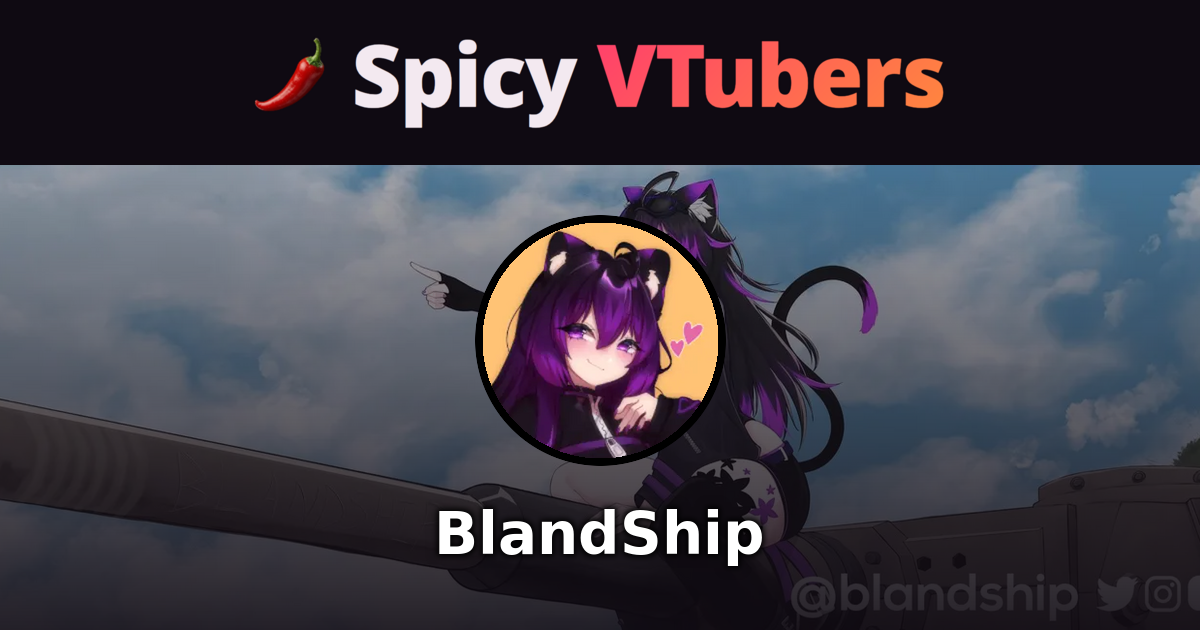
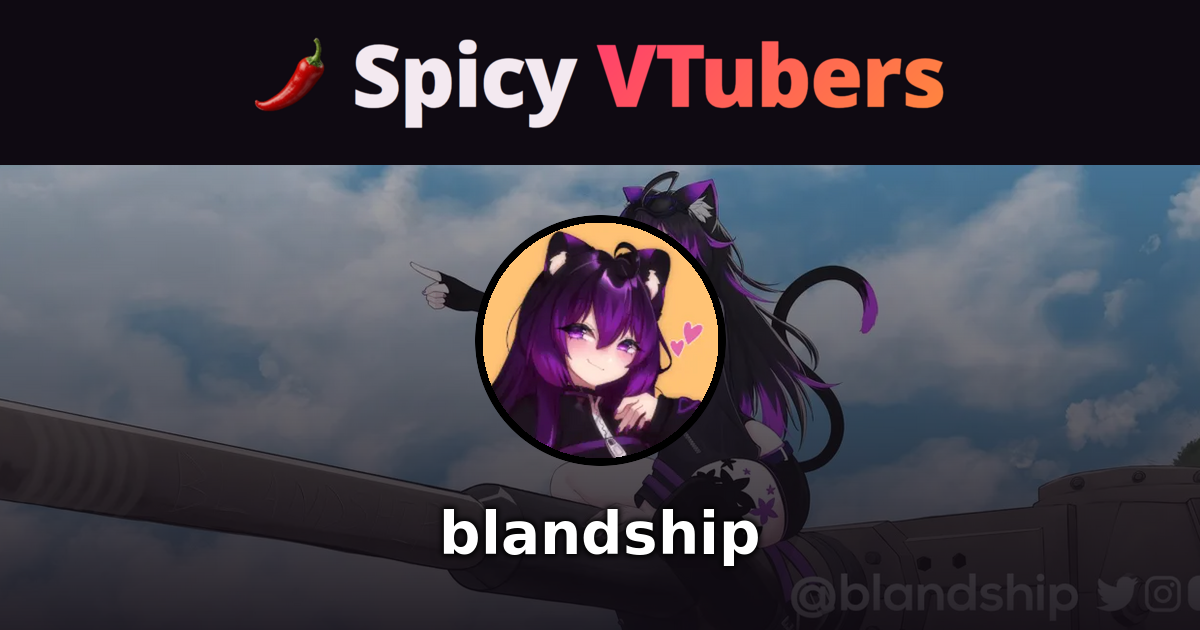
14

Changed region(s): [[0.3392, 0.7841, 0.6475, 0.9048]]

diff --git a/c/anwianwi/index.html b/c/anwianwi/index.html
@@ -3,33 +3,33 @@
 <head>
 <meta charset="UTF-8">
 <meta name="viewport" content="width=device-width, initial-scale=1.0">
-<title>thevioletneko — Spicy VTubers</title>
-<meta name="description" content="Degen, Gremlin, sometimes cozy. I play a wide variety of games. Mixed reality.  📧 Inquiries &amp; VA opportunities: violetneko23@gmail.com">
-<link rel="canonical" href="https://spicyvtubers.com/c/thevioletneko/">
+<title>AnwiAnwi — Spicy VTubers</title>
+<meta name="description" content="んふふ～♡　どこ見てるのかしら？Recently summoned by a lonely soul; though upon meeting the modern folk he found himself horrified by their terrible eating habits, their…">
+<link rel="canonical" href="https://spicyvtubers.com/c/anwianwi/">
 
 <!-- Open Graph -->
 <meta property="og:type" content="profile">
 <meta property="og:site_name" content="Spicy VTubers">
-<meta property="og:title" content="thevioletneko — Spicy VTubers">
-<meta property="og:description" content="Degen, Gremlin, sometimes cozy. I play a wide variety of games. Mixed reality.  📧 Inquiries &amp; VA opportunities: violetneko23@gmail.com">
-<meta property="og:url" content="https://spicyvtubers.com/c/thevioletneko/">
-<meta property="og:image" content="https://spicyvtubers.com/c/thevioletneko/og-image.png">
+<meta property="og:title" content="AnwiAnwi — Spicy VTubers">
+<meta property="og:description" content="んふふ～♡　どこ見てるのかしら？Recently summoned by a lonely soul; though upon meeting the modern folk he found himself horrified by their terrible eating habits, their…">
+<meta property="og:url" content="https://spicyvtubers.com/c/anwianwi/">
+<meta property="og:image" content="https://spicyvtubers.com/c/anwianwi/og-image.png">
 <meta property="og:image:width" content="1200">
 <meta property="og:image:height" content="630">
 
 <!-- Twitter Card -->
 <meta name="twitter:card" content="summary_large_image">
 <meta name="twitter:site" content="@Spicy_VTubers">
-<meta name="twitter:title" content="thevioletneko — Spicy VTubers">
-<meta name="twitter:description" content="Degen, Gremlin, sometimes cozy. I play a wide variety of games. Mixed reality.  📧 Inquiries &amp; VA opportunities: violetneko23@gmail.com">
-<meta name="twitter:image" content="https://spicyvtubers.com/c/thevioletneko/og-image.png">
+<meta name="twitter:title" content="AnwiAnwi — Spicy VTubers">
+<meta name="twitter:description" content="んふふ～♡　どこ見てるのかしら？Recently summoned by a lonely soul; though upon meeting the modern folk he found himself horrified by their terrible eating habits, their…">
+<meta name="twitter:image" content="https://spicyvtubers.com/c/anwianwi/og-image.png">
 
 <link rel="icon" type="image/x-icon" href="/favicon.ico">
 <link rel="icon" type="image/png" sizes="32x32" href="/favicon-32x32.png">
 <link rel="icon" type="image/png" sizes="16x16" href="/favicon-16x16.png">
 <link rel="apple-touch-icon" sizes="180x180" href="/apple-touch-icon.png">
 <link rel="stylesheet" href="/style101.css">
-<script type="application/ld+json">{"@context":"https://schema.org","@type":"Person","name":"thevioletneko","url":"https://spicyvtubers.com/c/thevioletneko/","image":"https://spicyvtubers.com/avatarsLarge/thevioletneko.webp","sameAs":["https://twitch.com/thevioletneko","https://x.com/violetnekovt","https://theviolteneko.carrd.co/"]}</script>
+<script type="application/ld+json">{"@context":"https://schema.org","@type":"Person","name":"AnwiAnwi","url":"https://spicyvtubers.com/c/anwianwi/","image":"https://spicyvtubers.com/avatarsLarge/anwianwi.webp","sameAs":["https://twitch.com/AnwiAnwi","https://x.com/anwianwii","https://x.com/safe4anwi","https://linktr.ee/AnwiAnwi"]}</script>
 </head>
 <body>
 
@@ -73,15 +73,15 @@
   <section class="creator-profile">
     <div class="creator-card">
       <div class="creator-profile-card">
-        <div class="creator-profile-head has-banner" style="--banner-image: url('/banners/thevioletneko.webp')">
-          <span class="avatar avatar-xl" data-initials="T">
-            <img class="avatar-img is-loaded" src="/avatarsLarge/thevioletneko.webp" alt="" decoding="async">
+        <div class="creator-profile-head has-banner" style="--banner-image: url('/banners/anwianwi.webp')">
+          <span class="avatar avatar-xl" data-initials="A">
+            <img class="avatar-img is-loaded" src="/avatarsLarge/anwianwi.webp" alt="" decoding="async">
           </span>
-          <h1 class="channel-name">thevioletneko</h1>
+          <h1 class="channel-name">AnwiAnwi</h1>
         </div>
-        <div class="spice-handles"><a class="spice-pill" data-icon="fansly" href="https://fansly.com/thevioletneko/spicy" target="_blank" rel="noopener noreferrer" title="Fansly: thevioletneko">thevioletneko</a><a class="x-pill" data-icon="x" href="https://x.com/violetnekovt" target="_blank" rel="noopener noreferrer" title="Twitter: violetnekovt">violetnekovt</a></div>
+        <div class="spice-handles"><a class="spice-pill" data-icon="fansly" href="https://fansly.com/anwianwi/spicy" target="_blank" rel="noopener noreferrer" title="Fansly: anwianwi">anwianwi</a><a class="x-pill" data-icon="x" href="https://x.com/anwianwii" target="_blank" rel="noopener noreferrer" title="Twitter: anwianwii">anwianwii</a><a class="x-pill" data-icon="x" href="https://x.com/safe4anwi" target="_blank" rel="noopener noreferrer" title="Twitter: safe4anwi">safe4anwi</a></div>
       </div>
-      <div class="creator-bio-panel"><div class="bio-content">Degen, Gremlin, sometimes cozy. I play a wide variety of games. Mixed reality.  📧 Inquiries &amp; VA opportunities: violetneko23@gmail.com</div><div class="bio-actions"><a class="bio-socials-link" href="https://theviolteneko.carrd.co/" target="_blank" rel="noopener noreferrer"><svg viewBox="0 0 24 24" aria-hidden="true"><path d="M3.9 12c0-1.71 1.39-3.1 3.1-3.1h4V7H7c-2.76 0-5 2.24-5 5s2.24 5 5 5h4v-1.9H7c-1.71 0-3.1-1.39-3.1-3.1zM8 13h8v-2H8v2zm9-6h-4v1.9h4c1.71 0 3.1 1.39 3.1 3.1s-1.39 3.1-3.1 3.1h-4V17h4c2.76 0 5-2.24 5-5s-2.24-5-5-5z"/></svg>Socials</a><a class="bio-channel-link" href="https://twitch.com/thevioletneko" target="_blank" rel="noopener noreferrer"><svg viewBox="0 0 24 24" aria-hidden="true"><path d="M14 3h7v7h-2V6.41l-9.29 9.3-1.42-1.42 9.3-9.29H14V3zM5 5h6v2H7v10h10v-4h2v6H5V5z"/></svg>Twitch</a></div></div>
+      <div class="creator-bio-panel"><div class="bio-content">んふふ～♡　どこ見てるのかしら？Recently summoned by a lonely soul; though upon meeting the modern folk he found himself horrified by their terrible eating habits, their lack of friends, and lack of adult supervision; he has now decided to stay and watch over the humans.</div><div class="bio-actions"><a class="bio-socials-link" href="https://linktr.ee/AnwiAnwi" target="_blank" rel="noopener noreferrer"><svg viewBox="0 0 24 24" aria-hidden="true"><path d="M3.9 12c0-1.71 1.39-3.1 3.1-3.1h4V7H7c-2.76 0-5 2.24-5 5s2.24 5 5 5h4v-1.9H7c-1.71 0-3.1-1.39-3.1-3.1zM8 13h8v-2H8v2zm9-6h-4v1.9h4c1.71 0 3.1 1.39 3.1 3.1s-1.39 3.1-3.1 3.1h-4V17h4c2.76 0 5-2.24 5-5s-2.24-5-5-5z"/></svg>Socials</a><a class="bio-channel-link" href="https://twitch.com/AnwiAnwi" target="_blank" rel="noopener noreferrer"><svg viewBox="0 0 24 24" aria-hidden="true"><path d="M14 3h7v7h-2V6.41l-9.29 9.3-1.42-1.42 9.3-9.29H14V3zM5 5h6v2H7v10h10v-4h2v6H5V5z"/></svg>Twitch</a></div></div>
     </div>
   </section>
   <p class="back-to-index"><a href="/">← All Creators</a></p>

diff --git a/c/blandship/index.html b/c/blandship/index.html
@@ -3,14 +3,14 @@
 <head>
 <meta charset="UTF-8">
 <meta name="viewport" content="width=device-width, initial-scale=1.0">
-<title>BlandShip — Spicy VTubers</title>
+<title>blandship — Spicy VTubers</title>
 <meta name="description" content="This is an account with Gaijin Verification, Uffas!! soy BlandShip un NekoEnder y me encantan los gameplays de casi todo tipo de juegos, en especial…">
 <link rel="canonical" href="https://spicyvtubers.com/c/blandship/">
 
 <!-- Open Graph -->
 <meta property="og:type" content="profile">
 <meta property="og:site_name" content="Spicy VTubers">
-<meta property="og:title" content="BlandShip — Spicy VTubers">
+<meta property="og:title" content="blandship — Spicy VTubers">
 <meta property="og:description" content="This is an account with Gaijin Verification, Uffas!! soy BlandShip un NekoEnder y me encantan los gameplays de casi todo tipo de juegos, en especial…">
 <meta property="og:url" content="https://spicyvtubers.com/c/blandship/">
 <meta property="og:image" content="https://spicyvtubers.com/c/blandship/og-image.png">
@@ -20,7 +20,7 @@
 <!-- Twitter Card -->
 <meta name="twitter:card" content="summary_large_image">
 <meta name="twitter:site" content="@Spicy_VTubers">
-<meta name="twitter:title" content="BlandShip — Spicy VTubers">
+<meta name="twitter:title" content="blandship — Spicy VTubers">
 <meta name="twitter:description" content="This is an account with Gaijin Verification, Uffas!! soy BlandShip un NekoEnder y me encantan los gameplays de casi todo tipo de juegos, en especial…">
 <meta name="twitter:image" content="https://spicyvtubers.com/c/blandship/og-image.png">
 
@@ -29,7 +29,7 @@
 <link rel="icon" type="image/png" sizes="16x16" href="/favicon-16x16.png">
 <link rel="apple-touch-icon" sizes="180x180" href="/apple-touch-icon.png">
 <link rel="stylesheet" href="/style101.css">
-<script type="application/ld+json">{"@context":"https://schema.org","@type":"Person","name":"BlandShip","url":"https://spicyvtubers.com/c/blandship/","image":"https://spicyvtubers.com/avatarsLarge/blandship.webp","sameAs":["https://twitch.com/BlandShip","https://x.com/blandship","https://x.com/blandshipnsfw"]}</script>
+<script type="application/ld+json">{"@context":"https://schema.org","@type":"Person","name":"blandship","url":"https://spicyvtubers.com/c/blandship/","image":"https://spicyvtubers.com/avatarsLarge/blandship.webp","sameAs":["https://twitch.com/blandship","https://x.com/blandship","https://x.com/blandshipnsfw"]}</script>
 </head>
 <body>
 
@@ -77,11 +77,11 @@
           <span class="avatar avatar-xl" data-initials="B">
             <img class="avatar-img is-loaded" src="/avatarsLarge/blandship.webp" alt="" decoding="async">
           </span>
-          <h1 class="channel-name">BlandShip</h1>
+          <h1 class="channel-name">blandship</h1>
         </div>
         <div class="spice-handles"><a class="spice-pill" data-icon="fansly" href="https://fansly.com/blandship/spicy" target="_blank" rel="noopener noreferrer" title="Fansly: blandship">blandship</a><a class="x-pill" data-icon="x" href="https://x.com/blandship" target="_blank" rel="noopener noreferrer" title="Twitter: blandship">blandship</a><a class="x-pill" data-icon="x" href="https://x.com/blandshipnsfw" target="_blank" rel="noopener noreferrer" title="Twitter: blandshipnsfw">blandshipnsfw</a></div>
       </div>
-      <div class="creator-bio-panel"><div class="bio-content">This is an account with Gaijin Verification, Uffas!! soy BlandShip un NekoEnder y me encantan los gameplays de casi todo tipo de juegos, en especial tanquesito</div><div class="bio-actions"><a class="bio-channel-link" href="https://twitch.com/BlandShip" target="_blank" rel="noopener noreferrer"><svg viewBox="0 0 24 24" aria-hidden="true"><path d="M14 3h7v7h-2V6.41l-9.29 9.3-1.42-1.42 9.3-9.29H14V3zM5 5h6v2H7v10h10v-4h2v6H5V5z"/></svg>Twitch</a></div></div>
+      <div class="creator-bio-panel"><div class="bio-content">This is an account with Gaijin Verification, Uffas!! soy BlandShip un NekoEnder y me encantan los gameplays de casi todo tipo de juegos, en especial tanquesito</div><div class="bio-actions"><a class="bio-channel-link" href="https://twitch.com/blandship" target="_blank" rel="noopener noreferrer"><svg viewBox="0 0 24 24" aria-hidden="true"><path d="M14 3h7v7h-2V6.41l-9.29 9.3-1.42-1.42 9.3-9.29H14V3zM5 5h6v2H7v10h10v-4h2v6H5V5z"/></svg>Twitch</a></div></div>
     </div>
   </section>
   <p class="back-to-index"><a href="/">← All Creators</a></p>
